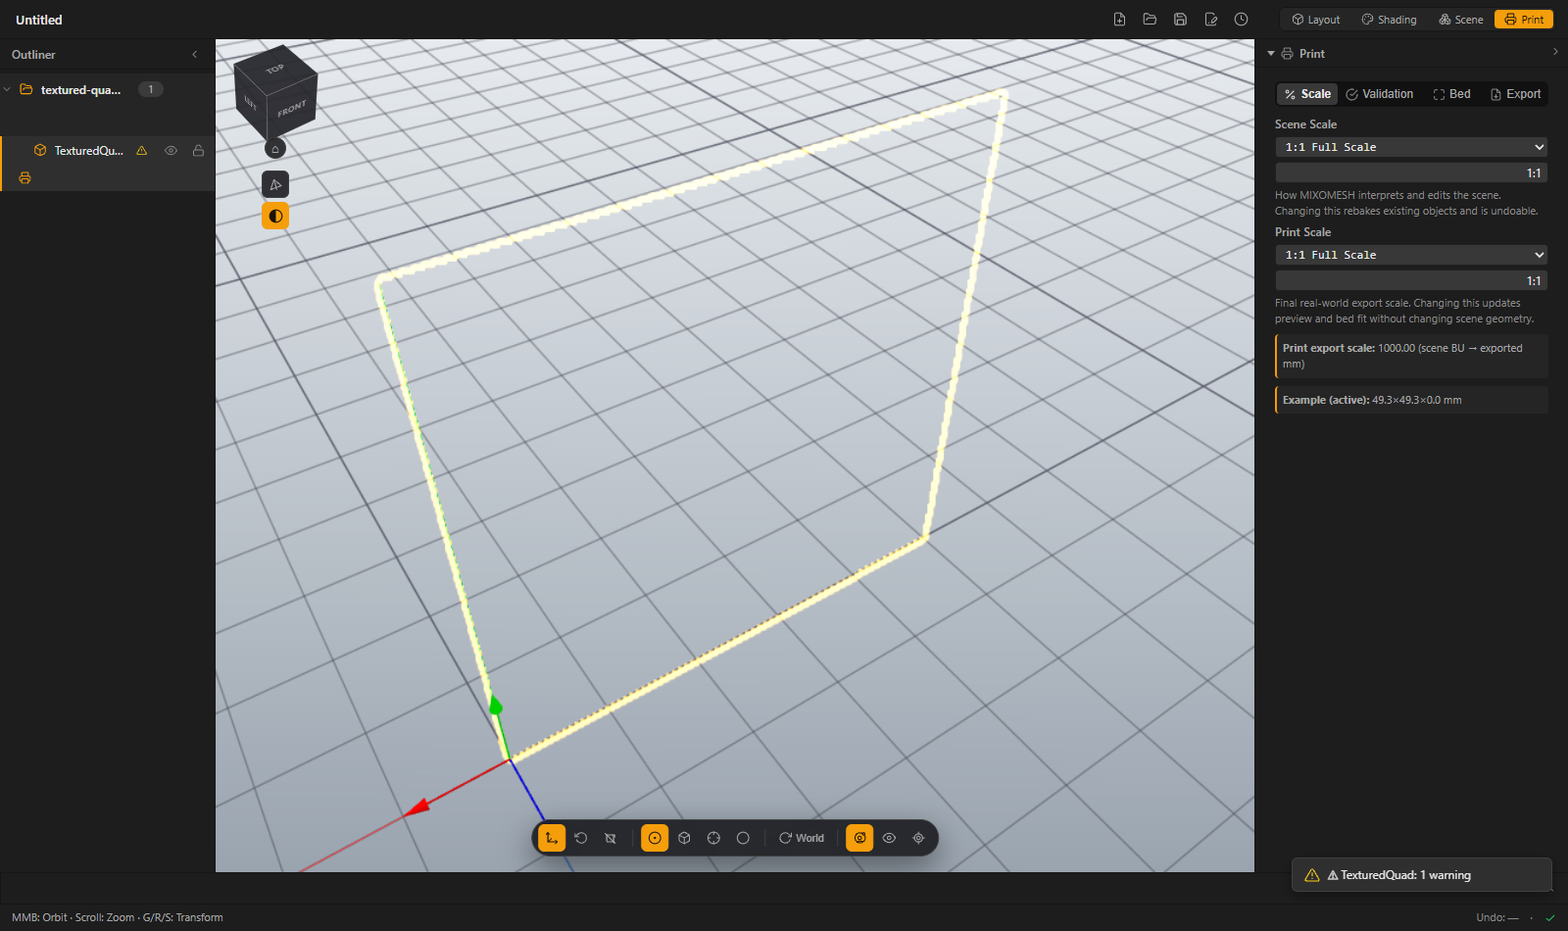
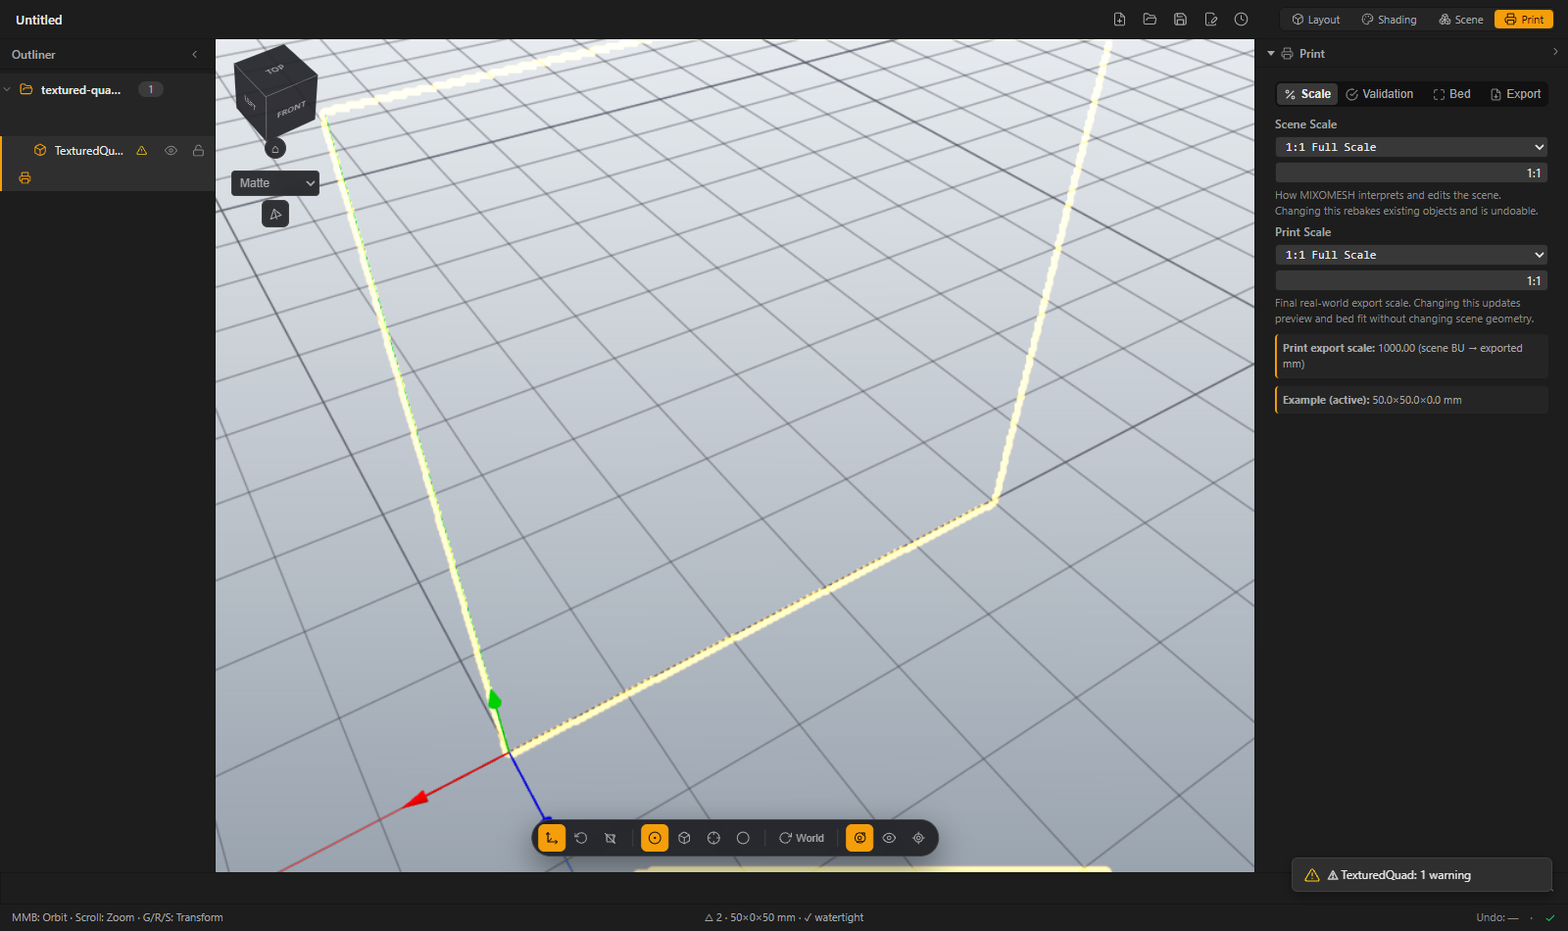
feat(viewport): display-mode selector + Base Color + live mesh-stats HUD
Borrowed the print-relevant inspection bits from Rodin/Hyper3D's viewer.

- ViewportToggles: mutually-exclusive display-mode <select> (Shaded / Matte /
  Base Color) folding the old matte toggle in; wireframe stays an independent
  overlay. _setMode drives both printPreview + baseColorView so modes are
  exclusive.
- Base Color = flat albedo (Mimaki ink preview): SceneManager._setBaseColorMode
  sets PBR unlit / Standard disableLighting+emissive, store/restore per material
  like print-preview -> viewport-only + export-safe. New overlay baseColorView
  (state default + boot restore + ASSET_INSTANTIATED re-apply + OverlayKey +
  setOverlay JSDoc).
- MeshStats.js: live "tris . WxDxH mm . watertight" in the status-bar centre on
  selection (reads validation cache); zero new UI chrome.
- Cross-section stripe: PROJECTION (screen-space) coords so the hatch shows
  regardless of model UVs (PLANAR/EXPLICIT showed none).

Deferred (reported): inverted/back-face highlight + UV-checker (need per-mesh
clone / texture-swap with export+perf care). Smoke pins base-color unlit
flip/restore + 3-option selector; UI audit clean. Blueprint/BUILDLOG/memory
synced. All green: typecheck, build, 27 unit, browser smoke, export, head-ful
WebGPU.

diff --git a/src/core/SceneManager.js b/src/core/SceneManager.js
@@ -69,6 +69,7 @@ let _bgMode    = 'light';
 
 // Print preview material tracking
 const _printPreviewMaterialMap = new Map(); // materialId → { originalMetallic }
+const _baseColorMaterialMap = new Map();    // materialId → { unlit, disableLighting, emissive }
 
 // ── Init ─────────────────────────────────────────────────
 
@@ -129,6 +130,7 @@ export async function init(canvas) {
   // be added (without this the bed/floor receiveShadows but nothing casts).
   subscribe(EVENTS.ASSET_INSTANTIATED, () => {
     if (getState().scene.overlays?.printPreview) _setPrintPreviewMode(true);
+    if (getState().scene.overlays?.baseColorView) _setBaseColorMode(true);
     if (isEdgeOverlayEnabled()) setWireframeEdgesMode(true);
     ensureShadowCasters();
     registerSectionMeshes();
@@ -306,7 +308,7 @@ function _setupAxes() {
 
 /**
  * Toggle a named scene overlay.
- * @param {'grid'|'axes'|'wireframe'|'wireframeEdges'|'printPreview'|'bedPreview'} name
+ * @param {'grid'|'axes'|'wireframe'|'wireframeEdges'|'printPreview'|'baseColorView'|'bedPreview'} name
  * @param {boolean} on
  */
 export function setOverlay(name, on) {
@@ -326,6 +328,9 @@ export function setOverlay(name, on) {
       break;
     case 'printPreview':
       _setPrintPreviewMode(on);
+      break;
+    case 'baseColorView':
+      _setBaseColorMode(on);
       break;
     case 'wireframeEdges':
       setWireframeEdgesMode(on);
@@ -379,6 +384,48 @@ function _setPrintPreviewMode(enabled) {
     // Prune — stale entries would restore outdated values on the next
     // enable cycle and the map grew unbounded (review M15).
     _printPreviewMaterialMap.clear();
+  }
+}
+
+/**
+ * Base-color (flat albedo) inspection mode — shows what Mimaki actually inks,
+ * unlit. PBR → `unlit`; Standard → `disableLighting` with diffuse copied to
+ * emissive so the colour still shows. Stores + restores per material, exactly
+ * like print-preview's metallic swap (viewport-only; export reads source).
+ */
+function _setBaseColorMode(enabled) {
+  if (enabled) {
+    for (const mesh of _scene.meshes) {
+      const mat = mesh.material;
+      if (!mat) continue;
+      const matId = mat.uniqueId.toString();
+      if (!_baseColorMaterialMap.has(matId)) {
+        _baseColorMaterialMap.set(matId, {
+          unlit: mat.unlit,
+          disableLighting: mat.disableLighting,
+          emissive: mat.emissiveColor?.clone?.() ?? null,
+        });
+      }
+      if ('unlit' in mat) {
+        mat.unlit = true;                                   // PBR — flat albedo
+      } else if ('disableLighting' in mat) {
+        if (mat.diffuseColor && mat.emissiveColor) mat.emissiveColor = mat.diffuseColor.clone();
+        mat.disableLighting = true;                         // StandardMaterial
+      }
+    }
+  } else {
+    for (const mesh of _scene.meshes) {
+      const mat = mesh.material;
+      if (!mat) continue;
+      const stored = _baseColorMaterialMap.get(mat.uniqueId.toString());
+      if (!stored) continue;
+      if ('unlit' in mat) mat.unlit = stored.unlit ?? false;
+      else if ('disableLighting' in mat) {
+        mat.disableLighting = stored.disableLighting ?? false;
+        if (stored.emissive && mat.emissiveColor) mat.emissiveColor = stored.emissive;
+      }
+    }
+    _baseColorMaterialMap.clear();
   }
 }
 

diff --git a/src/ui/ViewportToggles.js b/src/ui/ViewportToggles.js
@@ -1,8 +1,10 @@
-// Viewport display toggles — docked under the NavCube (user request
-// 2026-06-12): Wireframe Edges and Matte/flat (print preview, removes
-// metallic), plus the edge-colour swatch shown while wireframe is on.
-// These replaced the Print Panel's Preview tab so display modes are
-// reachable from EVERY workspace, not just Print.
+// Viewport display controls — docked under the NavCube, reachable from EVERY
+// workspace. A mutually-exclusive SHADING MODE selector (Shaded / Matte /
+// Base Color — they all replace how the surface shades, so only one at a time)
+// plus independent OVERLAY toggles (Wireframe edges) that layer on any mode.
+// Matte = print-preview (no metallic); Base Color = flat albedo (what Mimaki
+// inks). Modes are viewport-only and export-safe (mirror print-preview's
+// store/restore; export reads source materials).
 
 import { EVENTS } from '../core/events.js';
 import { subscribe, getState, setState } from '../core/StateManager.js';
@@ -25,10 +27,15 @@ function _render() {
   if (!_root) return;
   const overlays = getState().scene.overlays ?? {};
   const wireOn  = overlays.wireframeEdges ?? false;
-  const matteOn = overlays.printPreview ?? false;
   const wireColor = _safeHex(overlays.wireframeEdgeColor ?? '#ffcc00');
+  const mode = overlays.baseColorView ? 'base' : overlays.printPreview ? 'matte' : 'shaded';
 
   _root.innerHTML = `
+    <select class="vt-mode" data-mode title="Display mode (shading)">
+      <option value="shaded" ${mode === 'shaded' ? 'selected' : ''}>Shaded</option>
+      <option value="matte"  ${mode === 'matte'  ? 'selected' : ''}>Matte</option>
+      <option value="base"   ${mode === 'base'   ? 'selected' : ''}>Base Color</option>
+    </select>
     <button class="vt-btn ${wireOn ? 'vt-on' : ''}" data-toggle="wireframeEdges"
             title="Wireframe edges — show edge outlines on models"
             aria-pressed="${wireOn ? 'true' : 'false'}">
@@ -36,16 +43,26 @@ function _render() {
     </button>
     <input type="color" class="vp-wire-color ${wireOn ? '' : 'vp-hidden'}"
            value="${escapeAttr(wireColor)}" title="Wireframe edge color">
-    <button class="vt-btn ${matteOn ? 'vt-on' : ''}" data-toggle="printPreview"
-            title="Matte/flat preview — removes metallic for print-like shading"
-            aria-pressed="${matteOn ? 'true' : 'false'}">
-      ${icon('Contrast', { width: 15, height: 15 })}
-    </button>
   `;
   _wire();
 }
 
+// Set the exclusive shading mode: matte = printPreview, base = baseColorView,
+// shaded = neither. Always drive BOTH overlays so switching modes turns the
+// other off.
+function _setMode(mode) {
+  const matte = mode === 'matte';
+  const base  = mode === 'base';
+  setState(s => ({
+    ...s,
+    scene: { ...s.scene, overlays: { ...s.scene.overlays, printPreview: matte, baseColorView: base } },
+  }), { silent: true });
+  SceneManager.setOverlay('printPreview', matte);
+  SceneManager.setOverlay('baseColorView', base);
+}
+
 function _wire() {
+  _root.querySelector('.vt-mode')?.addEventListener('change', (e) => _setMode(e.target.value));
   _root.querySelectorAll('[data-toggle]').forEach(btn => {
     btn.addEventListener('click', () => {
       const name = btn.dataset.toggle;

diff --git a/src/ui/MeshStats.js b/src/ui/MeshStats.js
@@ -1,0 +1,62 @@
+// Live mesh-stats readout in the status-bar centre segment — the print-relevant
+// numbers at a glance: triangle count, real-world bounding dims (mm, print-space
+// W×D×H), and watertight state (from the validation cache). Selection-driven;
+// empties when nothing is selected. Uses the existing centre segment, so it adds
+// zero new UI chrome.
+
+import { EVENTS } from '../core/events.js';
+import { subscribe, getState } from '../core/StateManager.js';
+import { SceneManager } from '../core/SceneManager.js';
+import { StatusBar } from './StatusBar.js';
+import { hasErrors } from '../core/MeshValidator.js';
+
+export function init() {
+  for (const ev of [
+    EVENTS.SELECTION_CHANGED,
+    EVENTS.VALIDATION_COMPLETE,
+    EVENTS.ASSET_INSTANTIATED,
+    EVENTS.OBJECT_REMOVED,
+  ]) subscribe(ev, _update);
+}
+
+function _meshFor(id, scene) {
+  return scene.meshes.find(m => m.metadata?.meshId === id) ?? null;
+}
+
+function _update() {
+  const scene = SceneManager.getScene?.();
+  if (!scene) return;
+  const B = window.BABYLON;
+  const sel = getState().selection?.selectedIds ?? [];
+  if (!sel.length) { StatusBar.setCenter(''); return; }
+
+  let tris = 0, min = null, max = null;
+  for (const id of sel) {
+    const m = _meshFor(id, scene);
+    if (!m || !m.geometry) continue;
+    tris += (m.getTotalIndices?.() ?? 0) / 3;
+    m.computeWorldMatrix(true);
+    const bb = m.getBoundingInfo().boundingBox;
+    if (!min) { min = bb.minimumWorld.clone(); max = bb.maximumWorld.clone(); }
+    else { min = B.Vector3.Minimize(min, bb.minimumWorld); max = B.Vector3.Maximize(max, bb.maximumWorld); }
+  }
+  if (!min) { StatusBar.setCenter(''); return; }
+
+  // Print-space W×D×H: print X = Babylon X, depth = Babylon Z, height = Babylon Y.
+  const d = max.subtract(min).scale(1000);   // BU → mm
+  const mm = (n) => Math.round(n);
+  const triStr = tris >= 100000 ? `${Math.round(tris / 1000)}k`
+    : tris >= 1000 ? `${(tris / 1000).toFixed(1)}k`
+    : `${Math.round(tris)}`;
+
+  // Watertight = no error-severity validation results on the active mesh.
+  const activeId = getState().selection?.activeId;
+  const val = activeId ? getState().scene.validation?.[activeId] : null;
+  const water = val?.results
+    ? (hasErrors(val.results) ? ' · ⚠ not watertight' : ' · ✓ watertight')
+    : '';
+
+  StatusBar.setCenter(`△ ${triStr} · ${mm(d.x)}×${mm(d.z)}×${mm(d.y)} mm${water}`);
+}
+
+export const MeshStats = { init };

diff --git a/src/app/main.ts b/src/app/main.ts
@@ -15,6 +15,7 @@ import { Modal } from '../ui/Modal.js';
 import { ImportError } from '../ui/ImportError.js';
 import { ViewportToolbar } from '../ui/ViewportToolbar.js';
 import { ViewportToggles } from '../ui/ViewportToggles.js';
+import { MeshStats } from '../ui/MeshStats.js';
 import { NavCube } from '../ui/NavCube.js';
 import { push, TransformCommand } from '../core/HistoryManager.js';
 import { MeshValidator } from '../core/MeshValidator.js';
@@ -31,7 +32,7 @@ type TransformCommit = {
 };
 
 type ContextMenuInfo = Parameters<typeof ContextMenu.open>[0];
-type OverlayKey = 'grid' | 'axes' | 'wireframe' | 'printPreview' | 'bedPreview';
+type OverlayKey = 'grid' | 'axes' | 'wireframe' | 'printPreview' | 'baseColorView' | 'bedPreview';
 type BootState = {
   scene?: {
     overlays?: Partial<Record<OverlayKey, boolean>>;
@@ -76,6 +77,7 @@ async function bootstrap() {
   AssetPanel.init();
   ViewportToolbar.init();
   ViewportToggles.init();
+  MeshStats.init();       // live mesh stats in the status-bar centre segment
   NavCube.init();
   PersistenceManager.init();
   ProjectMenu.init();
@@ -97,7 +99,7 @@ async function bootstrap() {
 
   SceneManager.applyRenderSettings((getState() as { scene?: { render?: object } }).scene?.render ?? {});
   const overlays = (getState() as BootState).scene?.overlays;
-  for (const key of ['grid', 'axes', 'wireframe', 'printPreview', 'bedPreview'] satisfies OverlayKey[]) {
+  for (const key of ['grid', 'axes', 'wireframe', 'printPreview', 'baseColorView', 'bedPreview'] satisfies OverlayKey[]) {
     if (overlays?.[key]) SceneManager.setOverlay(key, true);
   }
 

diff --git a/src/core/scene/ViewEffects.js b/src/core/scene/ViewEffects.js
@@ -200,11 +200,12 @@ function _buildStripeTexture() {
   }
   tex.update();
   tex.hasAlpha = true;
-  // Planar projection in WORLD space → uniform diagonal stripes on any geometry,
-  // independent of the model's UVs.
-  tex.coordinatesMode = BABYLON.Texture.PLANAR_MODE;
-  tex.uScale = 6;
-  tex.vScale = 6;
+  // PROJECTION (screen-space) coords → a uniform diagonal hatch regardless of
+  // the model's UVs (PLANAR/EXPLICIT gave no stripes on textured / UV-less
+  // meshes). Screen-projected hatch is a standard CAD section look.
+  tex.coordinatesMode = BABYLON.Texture.PROJECTION_MODE;
+  tex.uScale = 28;
+  tex.vScale = 28;
   return tex;
 }
 

diff --git a/src/core/StateManager.js b/src/core/StateManager.js
@@ -26,7 +26,7 @@ const INITIAL_STATE = {
       target: { x: 0, y: 0, z: 0 }, isOrthographic: false,
       followMode: 'free',          // 'free' | 'followActive' | 'worldOrigin'
     },
-    overlays: { grid: true, axes: true, wireframe: false, printPreview: true, bedPreview: false },
+    overlays: { grid: true, axes: true, wireframe: false, printPreview: true, baseColorView: false, bedPreview: false },
     // Viewport render look (Scene panel). Defaults mirror scene/SceneConstants
     // (tone/shadow/light values) — applied via SceneManager.applyRenderSettings
     // on boot/load/new. fovDeg 45.8° = Babylon's 0.8 rad default; clipNearMM 1

diff --git a/src/styles/components/viewport.css b/src/styles/components/viewport.css
@@ -73,6 +73,20 @@
   color: var(--accent-fg);
   border-color: var(--accent);
 }
+/* Display-mode selector — matches the chip look (dark, blurred, bordered) */
+.vp-toggles .vt-mode {
+  width: 100%;
+  height: 26px;
+  padding: 0 var(--sp-2);
+  font-size: var(--fs-sm);
+  color: var(--text-1);
+  background: rgba(19, 19, 22, 0.85);
+  backdrop-filter: blur(8px);
+  border: 1px solid var(--border-strong);
+  border-radius: var(--r-sm);
+  cursor: pointer;
+}
+.vp-toggles .vt-mode:hover { color: var(--text-0); }
 .vp-wire-color {
   width: 28px;
   height: 18px;

diff --git a/Blueprint.md b/Blueprint.md
@@ -211,6 +211,7 @@ src/
     ContextMenu.js
     PrintPanel.js
     StatusBar.js
+    MeshStats.js           ← live tris / mm dims / watertight in the status-bar centre (selection-driven)
     Toast.js
     Status.js              ← centralized error + loading policy (reportError / guard / runTask / safeAsync)
     Modal.js               ← generic modal helper
@@ -221,7 +222,7 @@ src/
     ViewportDrop.js        ← drag-and-drop onto viewport (asset panel + OS files)
     ImportError.js         ← safeImport wrapper + importError detail modal (import failures)
     ViewportToolbar.js     ← floating bottom toolbar (Fusion 360-style)
-    ViewportToggles.js     ← wireframe-edges + matte toggles docked under the NavCube
+    ViewportToggles.js     ← display-mode selector (Shaded/Matte/Base Color) + wireframe-edges overlay, under the NavCube
     ScenePanel.js          ← Scene workspace panel: grid / environment (incl. floor) / camera / Rendering output
     RenderFrame.js         ← Render-view compose overlay (aspect frame + darkening)
     Workspace.js           ← workspace presets (PART 13b): pill, hotkeys, scroll memory
@@ -786,7 +787,7 @@ const initialState = {
     // ArcRotateCamera positions camera at target + R·(sinβ cosα, cosβ, sinβ sinα).
     // β = π/4 (45° elevation), α = π/3 (front-right quadrant), R = 0.3 / cos(π/4).
     camera: { preset: 'perspective', alpha: Math.PI/3, beta: Math.PI/4, radius: 0.4243, target: {x:0,y:0,z:0}, isOrthographic: false, followMode: 'free' /* 'free'|'followActive'|'worldOrigin' */ },
-    overlays: { grid: true, axes: true, wireframe: false, printPreview: true, bedPreview: false },
+    overlays: { grid: true, axes: true, wireframe: false, printPreview: true, baseColorView: false, bedPreview: false },
     // wireframeEdges + wireframeEdgeColor are written on first viewport-toggle
     // use (not in INITIAL_STATE); persistence restores them when present.
     // Viewport render look (Scene panel) — defaults mirror SceneConstants;
@@ -825,7 +826,8 @@ const initialState = {
     //      the source world matrix baked, no metadata.meshId) renders the
     //      source's BACK faces with a SEMI-TRANSPARENT amber (#f59e0b) striped
     //      unlit material — hue is a constant amber EMISSIVE (#f59e0b, so it's
-    //      exact regardless of blending); a PLANAR-projected stripe texture
+    //      exact regardless of blending); a PROJECTION-mode (screen-space)
+    //      stripe texture
     //      supplies only the ALPHA pattern (translucent body α0.45 + denser
     //      stripes α0.92) so the diagonals stay uniform in world space rather
     //      than smeared across the model's own UVs. alpha-blended, depth-write
@@ -2552,17 +2554,22 @@ viewport toggles under the NavCube — see Viewport Toggles below — so they
 work from every workspace; there is no Preview tab.
 
 ### Viewport Toggles (`src/ui/ViewportToggles.js`)
-Vertical button stack docked under the NavCube (`#viewport-toggles`). Two
-amber-highlight toggles + one swatch:
-- **Wireframe edges** (`MeshTriangle` icon — irregular scalene triangle with
-  one internal edge, reads as a wireframe facet) → `SceneManager.setOverlay('wireframeEdges', on)`.
-- **Edge colour** swatch, visible only while wireframe edges are ON →
-  `SceneManager.setWireframeEdgeColor(hex)`.
-- **Matte/flat** (`Contrast` icon — half-filled disc, a sphere lit on one
-  side) — print-preview mode, removes metallic →
-  `SceneManager.setOverlay('printPreview', on)`.
-State lives in `state.scene.overlays` (silent writes, same contract the
-Preview tab used). Re-renders on `PROJECT_LOADED` / `PROJECT_NEW`.
+Docked under the NavCube (`#viewport-toggles`). A mutually-exclusive **display-
+mode** selector + independent **overlay** toggles — the MODE/OVERLAY split:
+modes replace how the surface shades (only one at a time), overlays layer on top.
+- **Display mode** `<select>` — **Shaded** (default-ish) · **Matte** (print
+  preview, removes metallic → `setOverlay('printPreview', on)`) · **Base Color**
+  (flat albedo, what Mimaki inks — PBR `unlit` / Standard `disableLighting`+emissive
+  → `setOverlay('baseColorView', on)`). `_setMode` always drives BOTH overlays so
+  picking one clears the other. Both modes are VIEWPORT-ONLY + export-safe — they
+  store/restore per material exactly like print-preview's metallic swap; export
+  reads source materials.
+- **Wireframe edges** overlay (`MeshTriangle`) → `setOverlay('wireframeEdges', on)`,
+  + an **edge-colour** swatch shown only while it's on.
+State lives in `state.scene.overlays` (silent writes). Re-renders on
+`PROJECT_LOADED` / `PROJECT_NEW`. (Inspection follow-ups not yet built:
+inverted/back-face highlight + UV-checker — they need per-mesh clone / texture-
+swap machinery with export+perf care.)
 
 ### Scene Panel (`src/ui/ScenePanel.js`)
 Right-panel section `#rp-scene` — the specialist section of the **Scene
@@ -2770,7 +2777,10 @@ Interactions:
 ### Status Bar (`src/ui/StatusBar.js`)
 Single bar at bottom. Segments:
 - **Left:** current op hint or default shortcuts.
-- **Center:** active object summary `[name] X:0.0 Y:0.0 Z:0.0 mm`.
+- **Center:** live mesh stats for the selection (`src/ui/MeshStats.js` →
+  `StatusBar.setCenter`): `△ 82k · 120×80×45 mm · ✓ watertight` — triangle
+  count, print-space W×D×H in mm, and watertight state (no error-severity
+  validation results). Selection-driven; empties when nothing is selected.
 - **Right:** undo/redo labels, polycount, save state (`Circle` for dirty, `Check` for saved).
 
 Collapses non-essential segments below 1280px.

diff --git a/BUILDLOG.md b/BUILDLOG.md
@@ -37,3 +37,4 @@ entries go at the bottom of the relevant section.
 - **Cross-section stencil cap → back-face fill (2026-06-13, same session):** the stencil cap still showed the hollow back-face shell on the user's GPU. Root cause: the single-pass `stencil` INVERT during the normal color render is DEPTH-GATED (`opStencilDepthPass` only fires for the frontmost fragment), so the even-odd parity never accumulates → the mask is wrong → the cap quad doesn't draw → you see the clipped interior directly. And it's GPU-dependent. Brainstormed options (A shader / B stencil-done-right / C CSG2-real-geometry); user chose **inspection-only, reliable preview (B′ back-face fill)**. Replaced the stencil cap with: per clipped solid, a shared-geometry CLONE (parent=null + baked source world matrix + no metadata.meshId → auto-excluded from clip/shadow/mask) renders the source's BACK faces with a flat opaque striped unlit material (front faces culled via flipped `sideOrientation`), so the interior fills with a solid cap colour — NO stencil, reliable on any GPU, shares geometry (no RAM dup), own clip observers, idempotent per mesh, disposed on cut-off. Border kept. All stencil code removed (`_setMeshStencil`/`_setAllStencil`/`material.stencil`). Documented for the print tool: a REAL cut face for export = geometry (CSG2, `PrintManager._csgRebake` already uses CSG2) — a future "apply cut" intersects the solid with the half-space; the viewport fill is preview-only. Smoke updated (fill-clone exists-on/gone-off via `mx-section-cap-*`). CAVEAT: the `sideOrientation` flip assumes CCW-front (standard imports) — if a model renders inverted, flip the one constant; cap visual is a live eyeball (hidden in capture). typecheck + build + 27 unit + browser smoke + export + head-ful WebGPU all green.
 - **Cross-section translucent amber + offset buffer + final audit (2026-06-13, same session):** (1) offset slider range padded ±10 mm (`getSectionExtentMM`) so the plane fully clears the model. (2) Cross-section fill restyled to theme accent **#f59e0b**: semi-transparent body (α0.30) with denser, less-transparent stripes (α0.78), alpha-blended + depth-write off (was opaque). Same back-face-clone mechanism. (3) FINAL CHECK: code integrity (typecheck + build + 27 unit + browser smoke + export + head-ful WebGPU all green), function-logic review of ViewEffects clone lifecycle (shared geometry ref-counted, safe dispose order, prune-on-dispose, live `_plane` via observers, idempotent), and UI audit via `node scripts/ui-screenshot.mjs` (4 workspaces captured, no console errors, panels + amber accent render correctly across Layout/Shade/Scene/Print). Blueprint fully synced.
 - **MediaRecorder removed + cross-section stripe/colour fix (2026-06-13, same session):** (1) **Dropped the MediaRecorder video fallback** — it hard-freezes Chrome 149 + all headless Chromium (never a safe fallback). `recordTurntable` is WebCodecs-only now; no `VideoEncoder` ⇒ a clear "needs Chrome/Edge" error, not a hung tab. Removed `_recordOnce` + the `pickVideoFormat` import. (2) **Cross-section fill stripe/colour fix** — the back-face clone sampled the stripe texture by the MODEL's UVs (no visible diagonals on textured / UV-less meshes) and α0.30 washed the amber out. Now: hue is a constant amber EMISSIVE (`#f59e0b`, exact regardless of blending), and a PLANAR-projected texture supplies only the stripe ALPHA (body α0.45 + denser stripes α0.92, `uScale/vScale=6`) → uniform diagonals in world space. typecheck + build + 27 unit + browser smoke (WebCodecs 1 s mp4 headless) + export + head-ful WebGPU all green.
+- **Inspection borrows (Rodin-style) + cap stripe retry (2026-06-13, same session):** evaluated Rodin/Hyper3D viewer; borrowed the print-relevant inspection bits (skipped AI-gen + LOD which fight full-res print). Built: (1) **Display-mode selector** in `ViewportToggles` — mutually-exclusive Shaded / Matte / Base Color `<select>` (folds the old matte toggle in). Base Color = flat albedo (Mimaki ink preview): `SceneManager._setBaseColorMode` sets PBR `unlit` / Standard `disableLighting`+emissive, store/restore per material like print-preview (viewport-only, export-safe). New `scene.overlays.baseColorView`; `_setMode` drives both overlays so modes stay exclusive; re-applied on `ASSET_INSTANTIATED`. (2) **Live mesh-stats HUD** — `src/ui/MeshStats.js` writes `△ tris · W×D×H mm · watertight` into the status-bar centre on selection (reads validation cache for watertight; zero new chrome). (3) **Cross-section stripe retry** — switched the cap stripe texture to PROJECTION (screen-space) coords + `uScale/vScale=28` (PLANAR/EXPLICIT showed nothing on textured/UV-less meshes). DEFERRED (reported, need per-mesh-clone / texture-swap + export+perf care): inverted/back-face highlight, UV-checker. Smoke pins base-color unlit flip/restore + 3-option mode selector; UI audit (`ui-screenshot.mjs`) confirms the mode selector renders, no console errors. typecheck + build + 27 unit + browser smoke + export + head-ful WebGPU all green.
